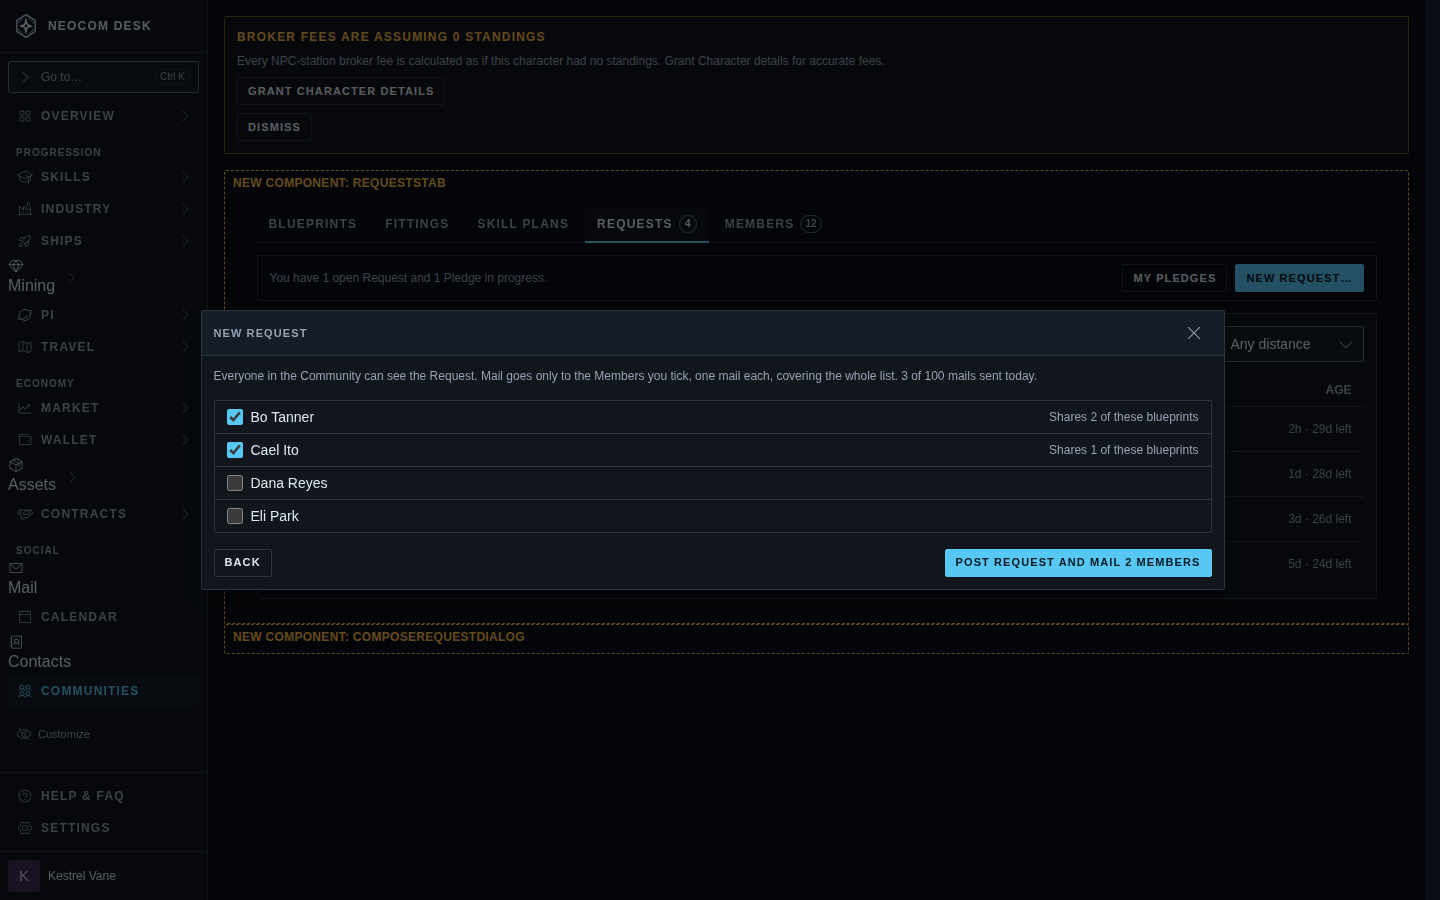
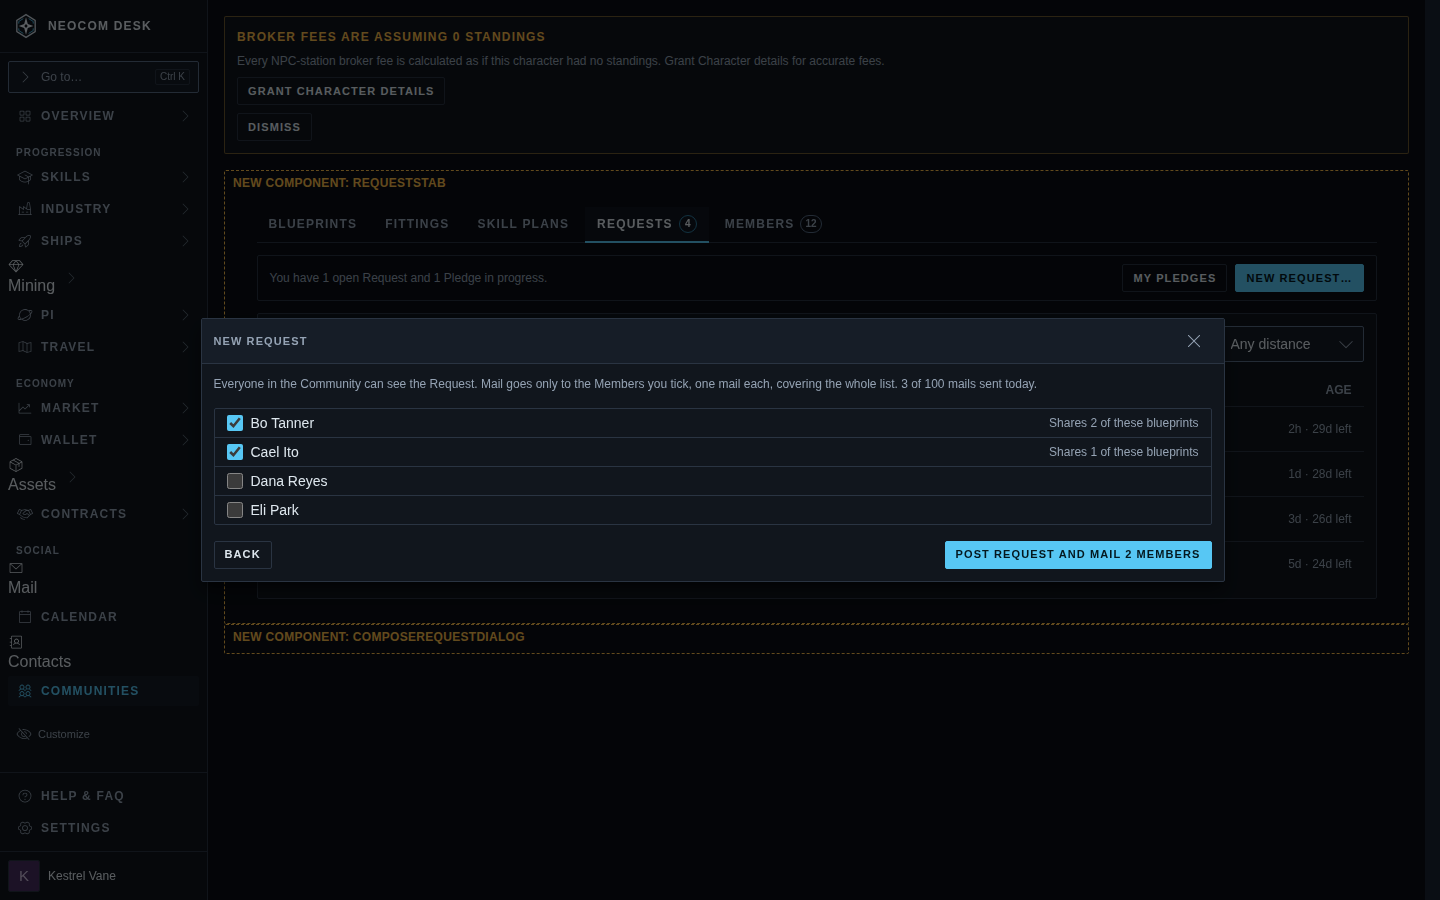
fix(mockup): put the recipient checkboxes in 44px touch-target labels

Changed region(s): [[0.125, 0.3422, 0.8438, 0.6533], [0.6562, 0.5911, 0.8438, 0.6533], [0.7188, 0.4356, 0.8438, 0.5289]]

diff --git a/src/mockups/CommunityRequests.stories.tsx b/src/mockups/CommunityRequests.stories.tsx
@@ -18,6 +18,7 @@ import {
   useTabsId,
   type DataTableColumn,
 } from '@/components/ui';
+import { tappableRowClassName } from '@/components/ui/controlStyles';
 import { NewComponent } from './NewComponent';
 
 /**
@@ -435,10 +436,12 @@ function ComposeRequestDialog({ step }: { step: 'lines' | 'recipients' }) {
                 ['Dana Reyes', '', false],
                 ['Eli Park', '', false],
               ].map(([name, why, on]) => (
-                <li key={String(name)} className="flex items-center gap-2 px-3 py-1.5">
-                  <Checkbox defaultChecked={Boolean(on)} aria-label={`Mail ${String(name)}`} />
-                  <span className="flex-1">{String(name)}</span>
-                  <span className="text-xs text-text-dim">{String(why)}</span>
+                <li key={String(name)}>
+                  <label className={`flex items-center gap-2 px-3 ${tappableRowClassName}`}>
+                    <Checkbox defaultChecked={Boolean(on)} />
+                    <span className="flex-1">{String(name)}</span>
+                    <span className="text-xs text-text-dim">{String(why)}</span>
+                  </label>
                 </li>
               ))}
             </ul>
